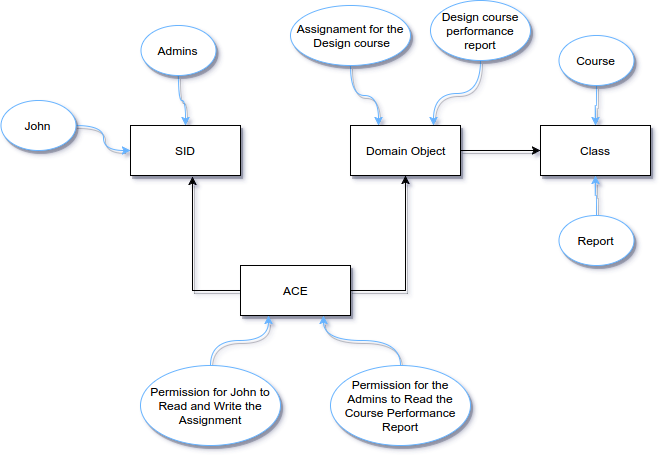
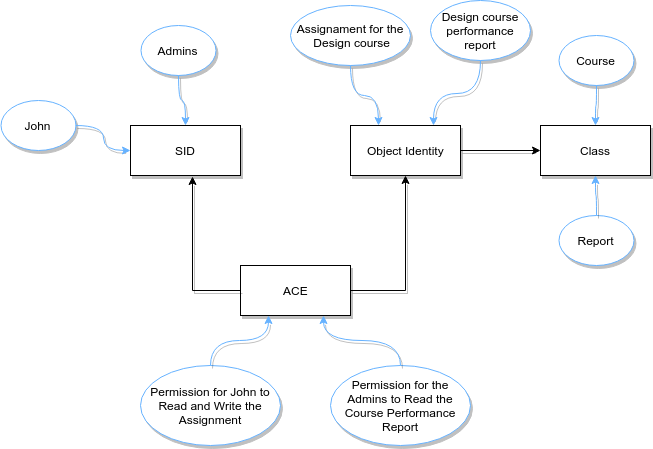
fixing post

diff --git a/_posts/2017-9-27-security-on-object-level-part-1.md b/_posts/2017-9-27-security-on-object-level-part-1.md
@@ -15,19 +15,22 @@ As the name states ACL isn't much more than a list, a list that keeps a director
 
 If we take the AWS S3 as example, we can enter in a bucket page and access the Permissions tab to view the page below.
 
-![Spring ACL populated schema](https://raw.githubusercontent.com/samuelbwr/samuelbwr.github.io/master/images/spring-acl/acl.png)
+![AWS S3 Permissions](https://raw.githubusercontent.com/samuelbwr/samuelbwr.github.io/master/images/spring-acl/acl.png)
 
 It just don't go far from that. The account, the bucket itself and the permission. Plain simple.
 
 Of course, you can specify a more complex approach on the Bucket Policy, but that's not required.
 
 ### How Spring implements ACL?
-In Spring, Spring ACL is a part of the ecosystem that takes care of Domain Object Security, it guards every tiny Domain Object, according to some specified rules, leaving the Authentication and the Method Invocation security to the Spring Security.
+Spring ACL is a part of the Spring ecosystem that takes care of Domain Object Security, it guards every tiny Domain Object, according to some specified rules, leaving the Authentication and the Method Invocation security to the Spring Security.
+
+Spring ACL apply a more Object-Oriented approach to the ACL's, dividing Identifiers ( User or Group ) and the Domain Object's into two separate classes, and uniting them in another one.
+
 The key concepts, and also the database tables, that one have to know to deal with Spring ACL are:
 
- - Security IDentity (SID): It’s the identifier and can be a user or group;
+ - **S**ecurity **ID**entity (SID): It’s the identifier and can be a user or group;
  - Object Identity: Keeps information about each Domain Object on the system.
- - Access Control Entity (ACE): It’s the bond between domain objects, permissions and SID’s.
+ - **A**ccess **C**ontrol **E**ntity (ACE): It’s the bond between domain objects, permissions and SID’s.
  - Class: The identification of a domain object class. Simple as that.
 
 The diagram below shows how is the schema and how would the parts be populated.

diff --git a/_posts/2017-11-6-security-on-object-level-part-2.md b/_posts/2017-11-6-security-on-object-level-part-2.md
@@ -4,18 +4,18 @@ title: Security on object level with Spring ACL  —  Part 2
 published: false
 ---
 
-Enough of words, let’s dive in!
+In the [first part](https://raw.githubusercontent.com/samuelbwr/samuelbwr.github.io/master/images/spring-acl/acl.png) of this series we learned what ACL and Spring is and how is organized. In this part we're going to code a solution with it.
 
 For the following example I’m assuming you already now a little bit of Java and Spring Boot.
 We’ll be using:
 
-- Spring Boot 1.5.7 (latest now)
+- Spring Boot 1.5.9 (latest now)
 - Spring Boot JPA
 - Spring ACL 4.2.3
 - H2 Embedded DB
 - Maven
 
-For simplicity and shortness sake I’ll be posting here only the very necessary code, but all the code can be found in https://github.com/samuelbwr/Spring-ACL/tree/master/Spring-ACL-Part-1.
+For simplicity and shortness sake I’ll be posting here only the very necessary code, but all the code can be found on [this git repo](https://github.com/samuelbwr/Spring-ACL/tree/master/Spring-ACL-Part-1).
 
 ```xml
 <dependencies>
@@ -31,7 +31,7 @@ For simplicity and shortness sake I’ll be posting here only the very necessary
   <dependency>
     <groupId>org.springframework.security</groupId>
     <artifactId>spring-security-acl</artifactId>
-    <version>4.2.3.RELEASE</version>
+    <version>5.0.0.RELEASE</version>
   </dependency>
   <dependency>
     <groupId>org.springframework.boot</groupId>
